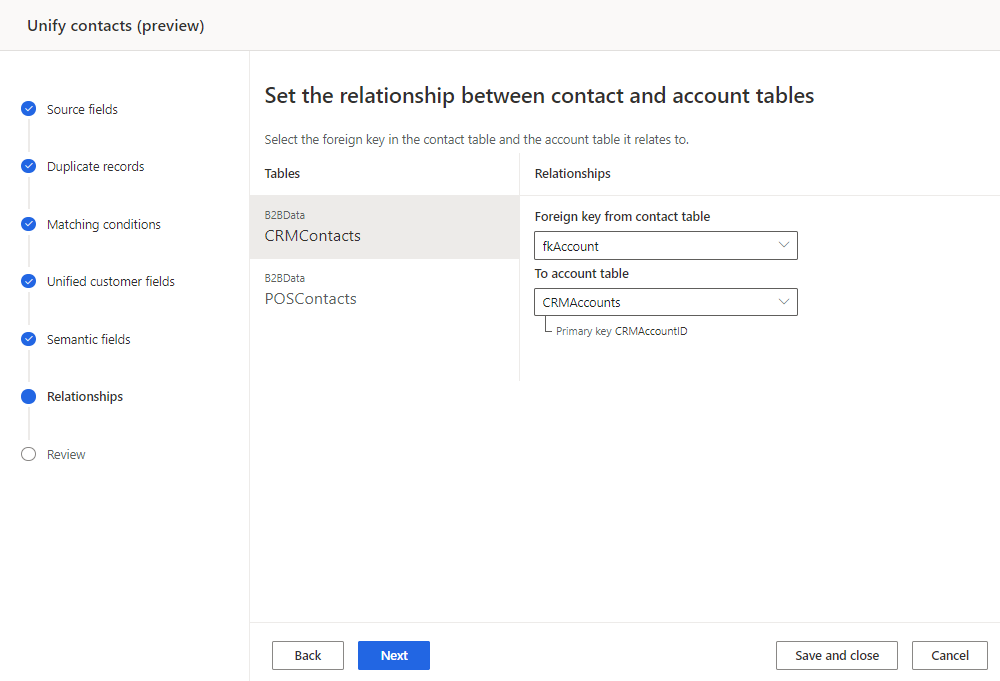
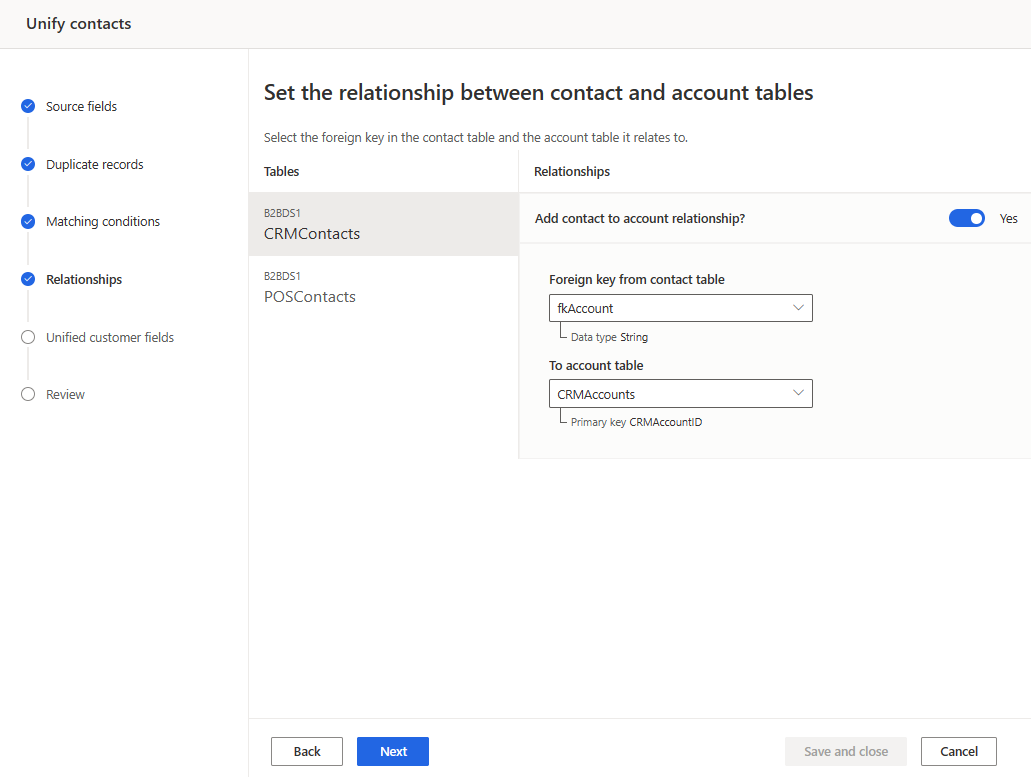
Review comments

diff --git a/ci-docs/data-unification-contacts.md b/ci-docs/data-unification-contacts.md
@@ -1,7 +1,7 @@
 ---
-title: "Create a B-to-B unified contact profile (preview)"
+title: "Create a B-to-B unified contact profile"
 description: "Go through the data unification process to create a single master dataset of business contacts."
-ms.date: 05/08/2023
+ms.date: 05/30/2023
 ms.reviewer: v-wendysmith
 ms.topic: how-to
 author: Scott-Stabbert
@@ -15,10 +15,9 @@ searchScope:
   - customerInsights
 ---
 
-# Create a unified B-to-B contact profile (preview)
+# Create a unified B-to-B contact profile
 
-After [unifying business accounts](data-unification-map-tables.md), you can optionally unify business contacts for those accounts and link the unified contacts to the unified accounts. The contact unification process maps contact data from multiple data sources, removes duplicates, matches the data across tables, creates relationships between contacts and accounts, and then creates a unified contact profile.
-An account can have multiple contacts, but a contact is linked to a single account. Contacts without accounts are also included in the contact profile.
+After [unifying business accounts](data-unification-map-tables.md), you can optionally unify business contacts for those accounts and link the unified contacts to the unified accounts. The contact unification process maps contact data from multiple data sources, removes duplicates, matches the data across tables, creates relationships between contacts and accounts, and then creates a unified contact profile. Customer Insights B-to-B supports a one-to-many account to contact relationship.  The account relationship for contacts is optional, allowing you to work with commercial contacts where the account is unknown.
 
 [!INCLUDE [m3-first-run-note](includes/m3-first-run-note.md)]
 
@@ -31,7 +30,7 @@ The first few steps are identical to the unifying accounts steps.
 
 ## Select source fields
 
-1. Under **Unify contacts (preview)**, select **Get started**.
+1. Under **Unify contacts**, select **Get started**.
 
 1. [Select the tables and fields](data-unification-map-tables.md) for your contact data sources, including the primary keys and attribute types.
 
@@ -51,9 +50,15 @@ The first few steps are identical to the unifying accounts steps.
 
 ## Set the relationship between contacts and accounts
 
-This step in the unification process connects your contact data to its corresponding account data.
+This step in the unification process connects your contact data to its corresponding account data. At least one contact table must have a relationship to an account table.
 
-1. For each table, enter the following information:
+1. For each table, select **Yes** or **No** for **Add contact to account relationship?**.
+
+   - If the table contains one or more contacts with known accounts, select **Yes**.
+
+   - If the table does not contain any contact to account relationships, meaning all the contacts are orphans, select **No**. Select **Next** and go to [Unify contact fields](#unify-contact-fields).
+
+1. If you selected **Yes** to **Add contact to account relationship?**, enter the following information:
 
    - **Foreign key from contact table**: Choose the attribute that connects your contact table to the account.
    - **To account table**: Choose the account table associated with the contact.

diff --git a/ci-docs/data-unification.md b/ci-docs/data-unification.md
@@ -1,7 +1,7 @@
 ---
 title: "Data unification overview"
 description: "Go through the data unification process with your data to create a single master dataset of account or customer profiles."
-ms.date: 05/08/2023
+ms.date: 05/30/2023
 ms.reviewer: v-wendysmith
 ms.topic: overview
 author: Scott-Stabbert
@@ -20,7 +20,7 @@ Data can be unified on a single table or multiple tables. Tables were previously
 
 For **individual consumers (B-to-C)** where the data is centered around individuals, unification provides a unified view of your customers.
 
-For **business accounts (B-to-B)** where the data is centered around accounts, unification provides a unified view of your accounts. [Contact unification (preview)](data-unification-contacts.md) allows contacts for those accounts to be separately unified and associated with the accounts. Contact unification (preview) also allows contacts without an account to be included in the unified contact profile.
+For **business accounts (B-to-B)** where the data is centered around accounts, unification provides a unified view of your accounts. [Contact unification](data-unification-contacts.md) allows contacts for those accounts to be separately unified and associated with the accounts. Contact unification also allows contacts without an account to be included in the unified contact profile.
 
 ## Data unification process
 
@@ -37,7 +37,7 @@ The unification process maps customer or account data from your data sources, re
 1. [Review](data-unification-review.md) and create the unified profile.
 
 > [!NOTE]
-> In B-to-B, after unifying accounts you can optionally [unify contacts (preview)](data-unification-contacts.md) for those accounts and link the unified contacts to the unified accounts.
+> In B-to-B, after unifying accounts you can optionally [unify contacts](data-unification-contacts.md) for those accounts and link the unified contacts to the unified accounts.
 
 ## Next steps
 

diff --git a/ci-docs/data-unification-update.md b/ci-docs/data-unification-update.md
@@ -1,7 +1,7 @@
 ---
 title: "Update customer, account, or contact unification settings"
 description: "Update duplicate rules, match rules, or unified fields in the customer or account unification settings."
-ms.date: 05/08/2023
+ms.date: 05/30/2023
 ms.topic: how-to
 author: Scott-Stabbert
 ms.author: sstabbert
@@ -238,7 +238,7 @@ Run matching conditions runs deduplication and match rules only and updates the 
 
 ## Run updates to the unified profile
 
-- To run matching conditions and update the unified profile table *without* impacting dependencies (such as customer cards, enrichments, segments, or measures), select **Unify customer profiles**. For accounts, select **Unify accounts** > **Unify profiles**. For contacts, select **Unify contacts (preview)** > **Unify profiles**. Dependent processes aren't run, but will be refreshed as [defined in the refresh schedule](schedule-refresh.md).
+- To run matching conditions and update the unified profile table *without* impacting dependencies (such as customer cards, enrichments, segments, or measures), select **Unify customer profiles**. For accounts, select **Unify accounts** > **Unify profiles**. For contacts, select **Unify contacts** > **Unify profiles**. Dependent processes aren't run, but will be refreshed as [defined in the refresh schedule](schedule-refresh.md).
 - To run matching conditions, update the unified profile, and run all dependencies, select **Unify customer profiles and dependencies**. All processes are rerun automatically. For accounts and contacts, select **Unify accounts** > **Unify profiles and dependencies**. Matching conditions are run for both accounts and contacts updating both unified profiles and all other dependencies are run.
 
 All tiles except **Source fields** show **Queued** or **Refreshing**.

diff --git a/ci-docs/data-unification-map-tables.md b/ci-docs/data-unification-map-tables.md
@@ -28,7 +28,7 @@ The first step in unification is selecting the tables and fields within your dat
    :::image type="content" source="media/m3_unify_land.png" alt-text="Screenshot of unify landing page for first run experience for individual customers.":::
 
    > [!NOTE]
-   > For business accounts (B-to-B), the **Unify** landing page displays **Unify accounts** showing **Get started** on the first step, **Source fields**. The **Unify contacts (preview)** steps are optional and pending completion of account unification.
+   > For business accounts (B-to-B), the **Unify** landing page displays **Unify accounts** showing **Get started** on the first step, **Source fields**. The **Unify contacts** steps are optional and pending completion of account unification.
    >
    >:::image type="content" source="media/b2b_unify_land.png" alt-text="Screenshot of unify landing page for first run experience for business accounts.":::
 

diff --git a/ci-docs/segments.md b/ci-docs/segments.md
@@ -35,7 +35,7 @@ Choose how to create a segment based on your target audience.
 
 # [Business accounts (B-to-B)](#tab/b2b)
 
-Segment of accounts or segment of contacts (preview) with segment builder: [Build your own](segment-builder.md)
+Segment of accounts or segment of contacts with segment builder: [Build your own](segment-builder.md)
 
 > [!NOTE]
 > Most export destinations require contact information for marketing purposes. Therefore, create segments of contacts to use for those exports.
